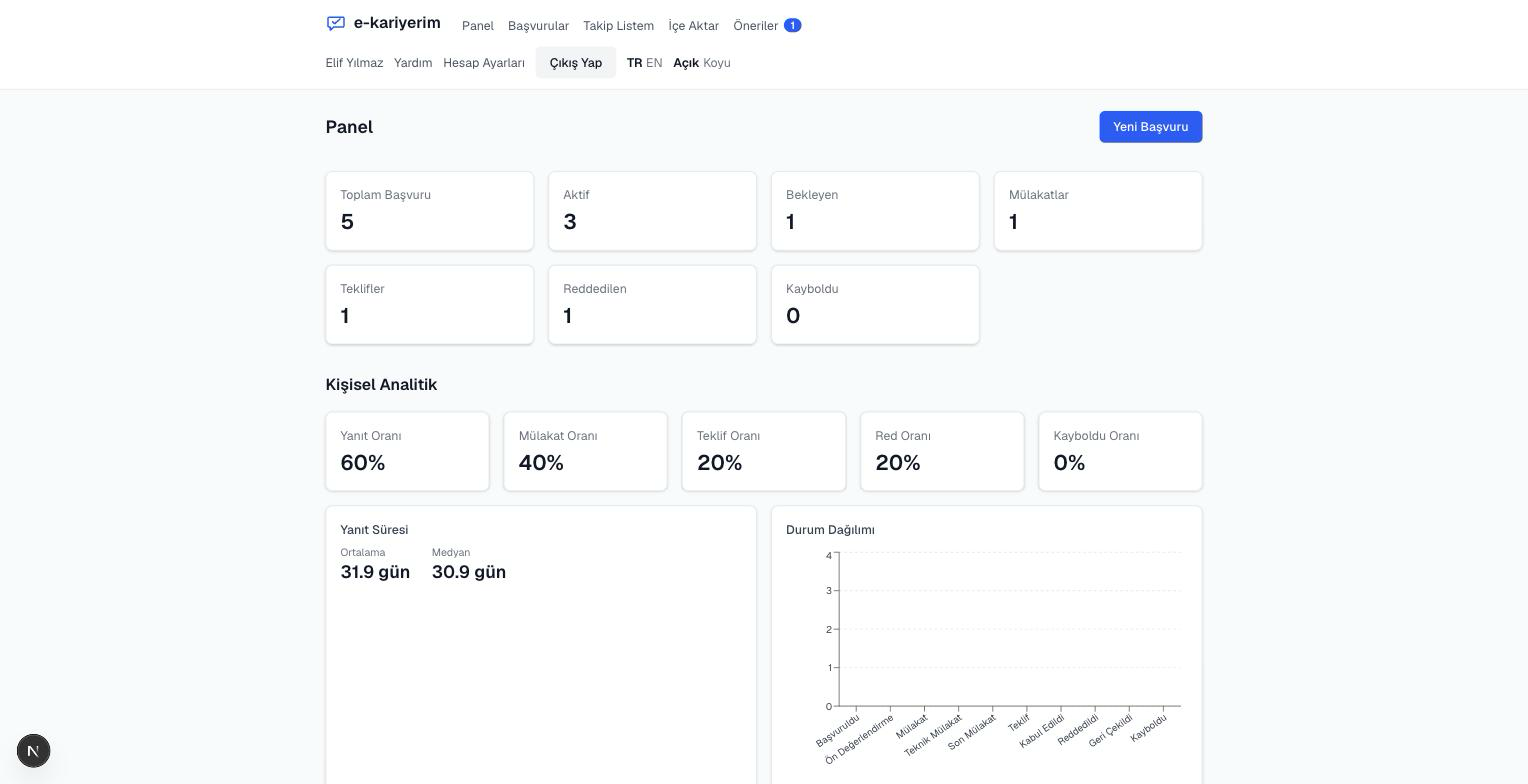
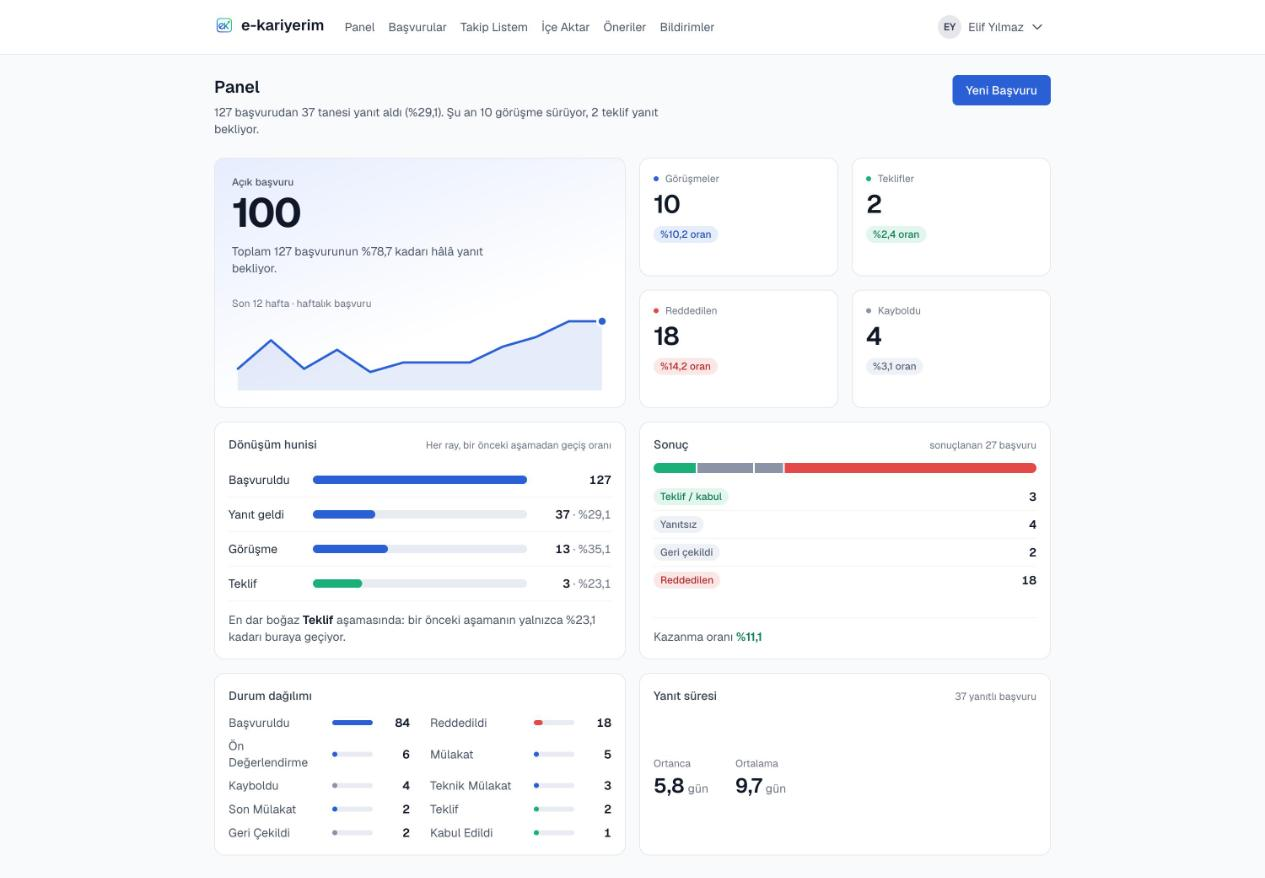
Refresh the dashboard help screenshot, and fix what shooting it exposed
The capture is from a throwaway demo account seeded locally, not from a real
one — the image ships in public documentation, so it should not carry anyone's
actual applications. Its 127-application shape is chosen so every panel the help
text describes has something to show: a funnel that narrows, a status list with
a long tail, resolved outcomes, and a real response-time sample.

Framing the shot turned up two defects:

- On a shared scale a count of 1 next to a count of 84 rounded to under a pixel
  and read as a missing bar. Same 6px floor the funnel rails already had.
- "Ön Değerlendirme", the longest Turkish status name, overran the label column
  by a few pixels and got clipped. The label wraps now; a status name is not
  something to truncate.

Claude-Session: https://claude.ai/code/session_01P13TQCEfuK9ccLXrnyqizE

diff --git a/web/src/components/dashboard/StatusBreakdown.tsx b/web/src/components/dashboard/StatusBreakdown.tsx
@@ -57,13 +57,21 @@ export function StatusBreakdown({ data }: { data: StatusDistributionItem[] }) {
         <ul className="grid gap-x-6 gap-y-2 sm:grid-cols-2">
           {rest.map((item) => (
             <li key={item.status} className="flex items-center gap-3">
-              <span className="min-w-0 flex-1 truncate text-sm text-gray-600 dark:text-gray-400">
+              {/* Wraps rather than truncates: the longest Turkish status name
+                  ("Ön Değerlendirme") overruns the label column by a few pixels, and a clipped
+                  status is worse than a two-line one. Grid rows keep both columns aligned. */}
+              <span className="min-w-0 flex-1 text-sm leading-snug text-gray-600 dark:text-gray-400">
                 {tStatus(item.status)}
               </span>
-              <span className="h-1.5 w-14 shrink-0 overflow-hidden rounded-full bg-track">
+              <span className="h-1.5 w-12 shrink-0 overflow-hidden rounded-full bg-track">
+                {/* Same floor as the funnel's rails: on a shared scale a count of 1 beside a
+                    count of 84 rounds to under a pixel and reads as a missing bar. */}
                 <span
                   className={`block h-full rounded-full ${TONE_FILL[STATUS_TONE[item.status]]}`}
-                  style={{ width: `${restMax > 0 ? (100 * item.count) / restMax : 0}%` }}
+                  style={{
+                    width: `${restMax > 0 ? (100 * item.count) / restMax : 0}%`,
+                    minWidth: item.count > 0 ? "0.375rem" : undefined,
+                  }}
                 />
               </span>
               <b className="w-8 shrink-0 text-right text-sm font-semibold text-gray-900 tabular-nums dark:text-gray-100">

diff --git a/DECISIONS.md b/DECISIONS.md
@@ -3107,11 +3107,19 @@ sorunu bu kez içerik dağıtımıyla çözüldü: `ConversionFunnel`/`OutcomeCa
 iki rakamı `flex-1 content-center` ile dikeyde ortalanıyor. `DashboardSkeleton` ve landing
 sayfasındaki `AnalyticsSection` aynı ızgarayı kullanıyor.
 
-### Yenilenmeyen: yardım ekran görüntüsü
+### Yardım ekran görüntüsü üretilmiş demo veriyle çekildi — DECIDED
 
-`web/public/help/screenshots/dashboard-overview.png` hâlâ eski paneli gösteriyor. Yardım
-metinleri (`help.dashboard.*`) yeni düzene göre yeniden yazıldı ama görsel, kullanıcının kendi
-verisiyle çekilmesi gerektiği için güncellenmedi.
+`web/public/help/screenshots/dashboard-overview.png` yenilendi. Kullanıcının gerçek hesabıyla
+değil, yerel DB'ye geçici olarak seed'lenen bir demo hesapla ("Elif Yılmaz", diğer yardım
+görselleriyle aynı isim) — görsel herkese açık dokümantasyonda duruyor, orada gerçek başvuru
+verisi olmamalı. 127 başvuruluk dağılım her paneli çalışır hâlde gösterecek şekilde seçildi:
+daralan bir huni (127 → 37 → 13 → 3), uzun kuyruklu bir durum listesi, sonuçlanmış başvurular
+ve gerçek bir yanıt süresi örneklemi. Hesap ve verisi çekim sonrası silindi.
+
+Bu tur iki UI hatası daha çıkardı: (1) paylaşılan ölçekte küçük değerler kayboluyordu
+(84'ün yanında 1 → piksel altı) — hunideki gibi 6px taban genişliği verildi; (2) en uzun Türkçe
+durum adı ("Ön Değerlendirme") etiket sütununu birkaç piksel aşıp kırpılıyordu — `truncate`
+kaldırıldı, etiket iki satıra sarıyor.
 
 ---
 
